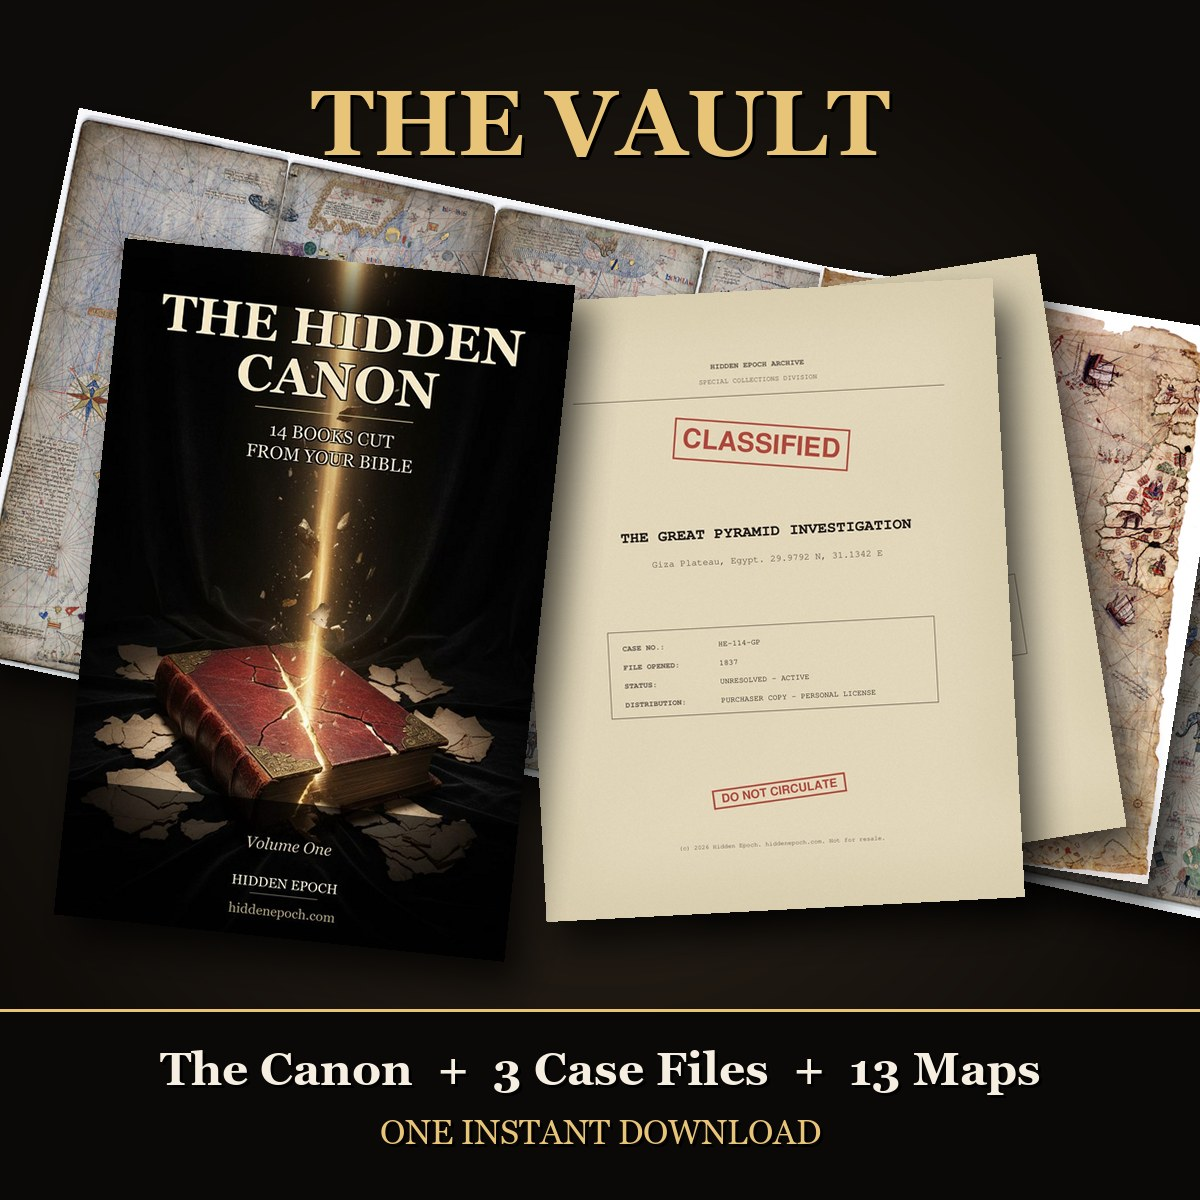
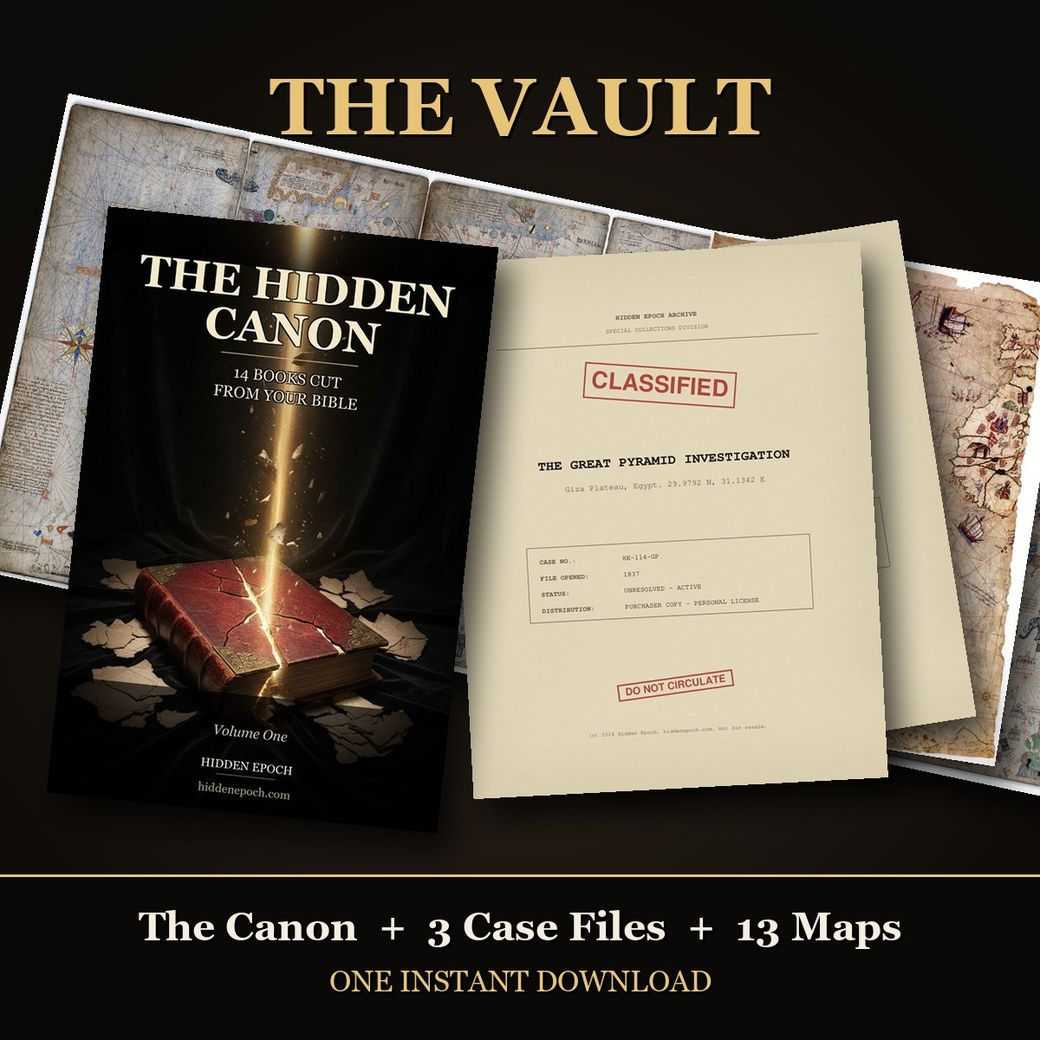
web: vault hero breathing room above bundle image, image 230KB->129KB

diff --git a/vault/index.html b/vault/index.html
@@ -282,7 +282,7 @@
     <p class="lede">
       Everything Hidden Epoch has published for sale, in one archive. The Hidden Canon, the 3 Classified Case Files, and all 13 Mystery Maps. One download. One price.
     </p>
-    <img src="vault-bundle.jpg" alt="The Hidden Canon, the Classified Case Files, and the Mystery Maps, all inside the Vault" width="1200" height="1200" style="display:block; width:100%; max-width:520px; height:auto; margin:8px auto 28px; border-radius:6px;">
+    <img src="vault-bundle.jpg" alt="The Hidden Canon, the Classified Case Files, and the Mystery Maps, all inside the Vault" width="1040" height="1040" style="display:block; width:100%; max-width:520px; height:auto; margin:32px auto 28px; border-radius:6px;">
     <div class="offer-card vault-offer">
     <div class="offer-badge">Launch price &middot; Best value</div>
     <div class="vault-price-block">
